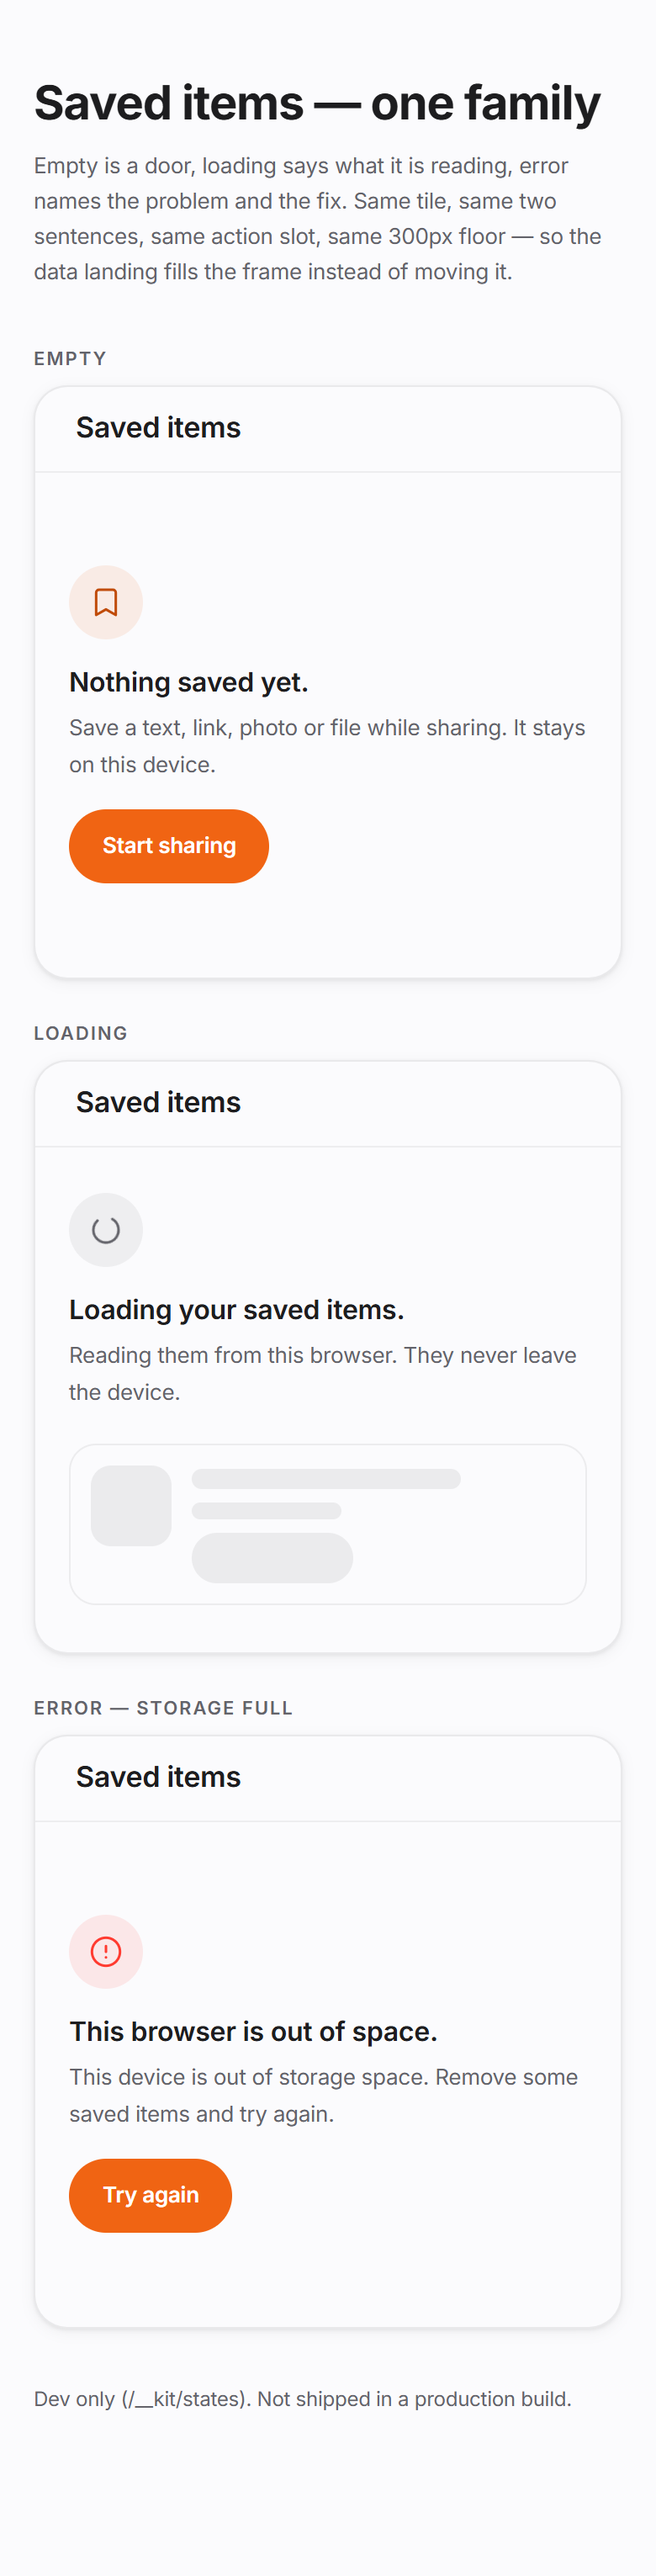
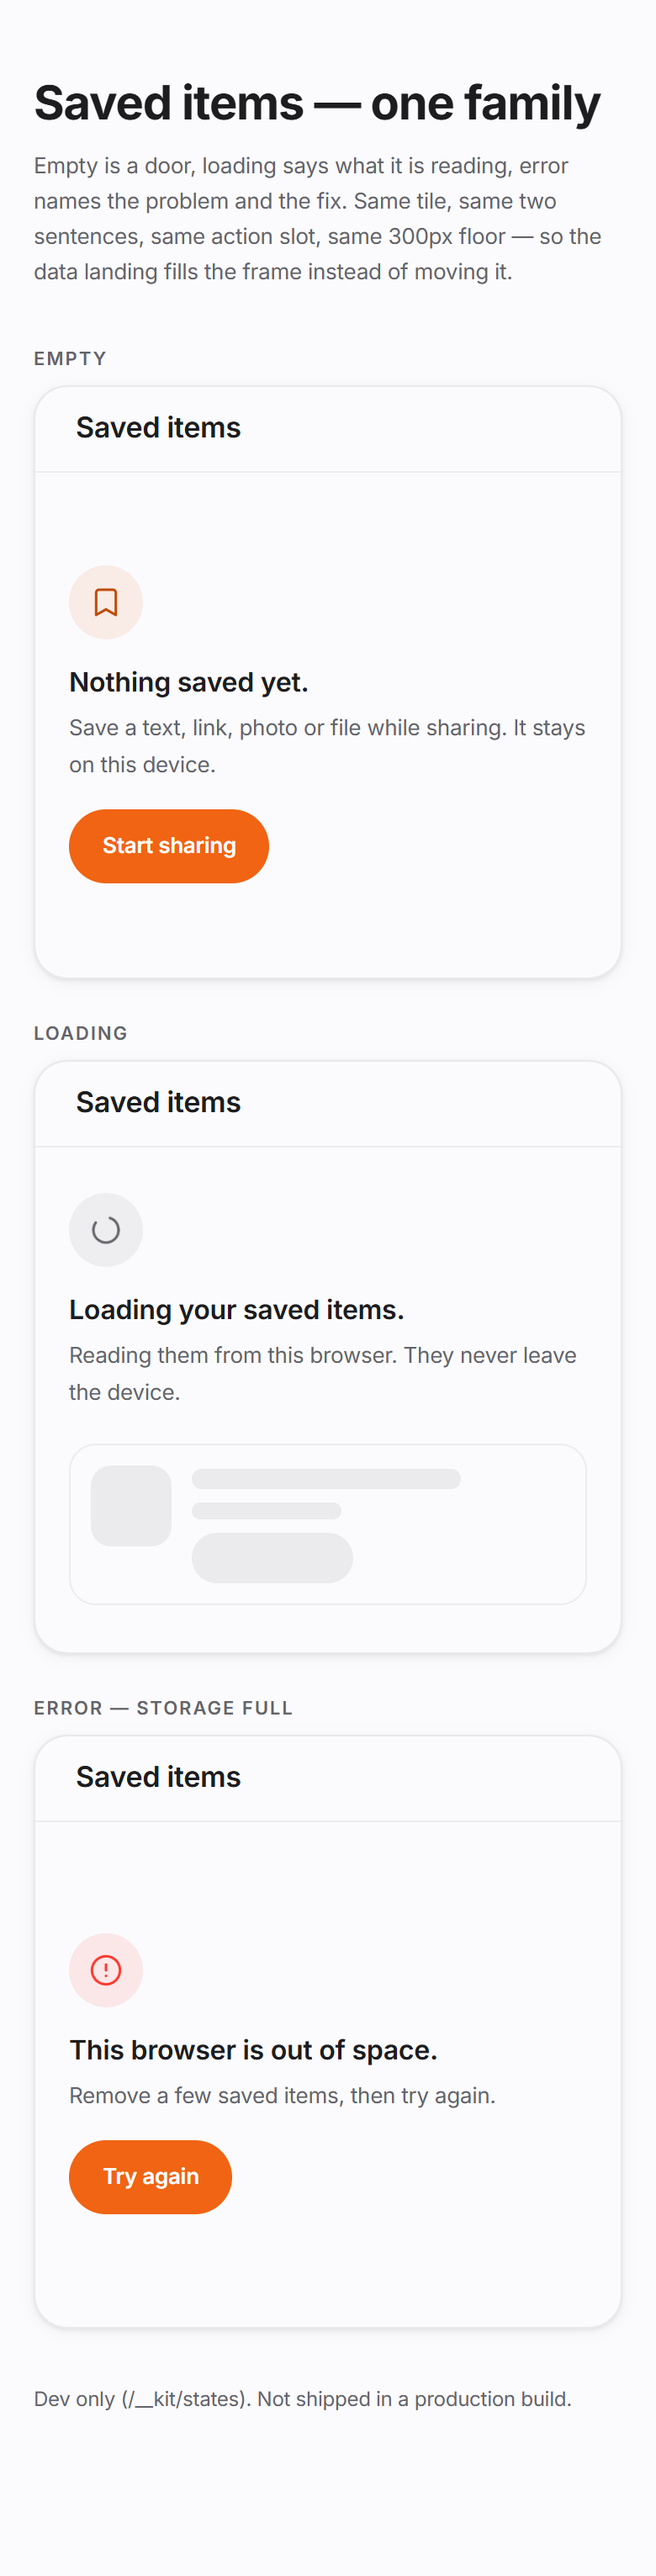
docs(states): keep the gallery's copy honest, add the two captures
The dev gallery carried its own literal English for the error body, so it
drifted from the shipped string the moment the message changed. Aligned, and
the desktop and 390px captures are in docs/redesign/states for review.

Dev-only: the gallery is behind import.meta.env.DEV, and the production bundle
contains no reference to it.

🤖 Generated with Codebuff

Changed region(s): [[0.0923, 0.7446, 0.6769, 0.8687], [0.6769, 0.8067, 0.7385, 0.8377]]

diff --git a/src/dev/StatesPage.tsx b/src/dev/StatesPage.tsx
@@ -66,7 +66,7 @@ export function StatesPage() {
             kind="error"
             testId="demo-error"
             title="This browser is out of space."
-            body="This device is out of storage space. Remove some saved items and try again."
+            body="Remove a few saved items, then try again."
             action={{ label: 'Try again', onClick: () => {} }}
           />
         </Frame>
